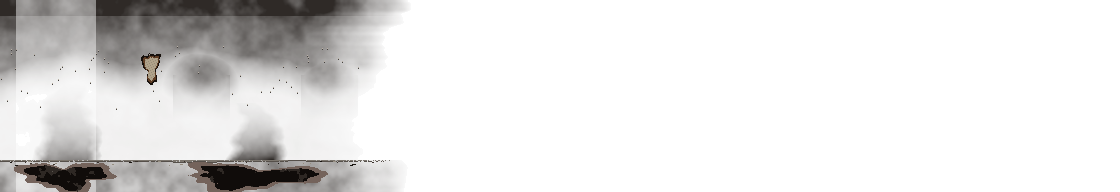
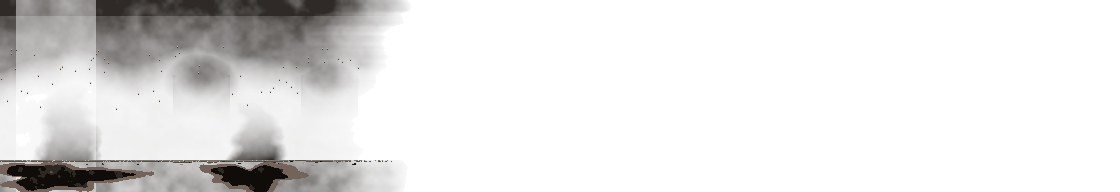
Signs sit clear: fire-scar holes keep off every sign, boards stop short of the door plate
The FLOOR plaque sat over paper burnt through by the fire scars (the holes never knew about
the sign footprints); barricade boards ran past the frame into the door's number plate; the
STAFF plate was 4px wider than its reserved footprint. All three now checked in
building_floors_test._test_floor_signs (the fire-scar check fails on the old art).

Claude-Session: https://claude.ai/code/session_018G5NCP3m9WbvqqpohXSrqQ

Changed region(s): [[0.0, 0.8438, 0.3125, 1.0], [0.125, 0.2812, 0.1562, 0.4375], [0.3125, 0.8125, 0.3438, 0.8438]]

diff --git a/tools/art/corridor.py b/tools/art/corridor.py
@@ -59,7 +59,7 @@ PIC_DY = 26                                  # pictures hang just above the rail
 # where the game draws its live signs (scripts/floor_signs.gd taken_local — keep the two in step): the
 # STAIRS signs, the floor numbers, the lift indicator, every door's number plate. No damage lands there.
 SIGNS = ([(12, 12, 100, 38), (1020, 12, 1108, 38), (112, 32, 150, 72), (966, 32, 1004, 72), (898, 48, 932, 64)]
-         + [(d - 50, 90, d - 24, 108) for d in DOORS + [814]])
+         + [(d - 50, 90, d - 24, 108) for d in DOORS] + [(814 - 56, 90, 814 - 24, 108)])   # STAFF is wider
 # wear geometry, set per section (set_geom): the dado rail's top, the lower wall's top, skirting
 DADO_Y, LOWER_Y, SKIRT_TOP = RAIL_Y, 100, SKIRT_Y
 G = {}
@@ -1091,6 +1091,11 @@ def fire_overlay(zone, seed):
         if any(abs(cx0 - d) < 34 for d in DOORS) or any(abs(cx0 - s_) < 22 for s_ in SPOTS):
             continue
         cy0 = rng.randrange(30, 80)
+        # never under a sign / number plate (floor_signs.gd draws them over this overlay; a hole round
+        # a plaque's edge reads as the plaque clipping into the wall)
+        if any(cx0 + 26 >= x0 - 3 and cx0 - 26 <= x1 + 3 and cy0 + 26 >= y0 - 3 and cy0 - 26 <= y1 + 3
+               for (x0, y0, x1, y1) in SIGNS):
+            continue
         fb = _blob(rng, cx0, cy0, rng.randrange(7, 14), rng.randrange(8, 16))
         for y in range(cy0 - 26, cy0 + 26):
             for x in range(cx0 - 30, cx0 + 30):

diff --git a/CLAUDE.md b/CLAUDE.md
@@ -1585,7 +1585,10 @@ means no rendering — UI layout and art still need an in-editor look.
   (`floor_signs.taken_local`). Nine readable BUILDING NOTICES join the per-floor dressing
   (`corridor_decals.py notice()`: lift out of order, water off, residents' meeting, bins, no smoking,
   keep it down; later evacuate / curfew / do not open doors). Corridor pictures NO LONGER HANG CROOKED
-  (`corridor.py picture_damage`: fine → gone → fallen). Locked by `building_floors_test._test_floor_signs`
+  (`corridor.py picture_damage`: fine → gone → fallen). Round 23b (owner: "clipping with the door and the
+  wall/signs"): the FIRE SCARS' burnt-through holes keep off every sign footprint (`corridor.py fire_overlay`),
+  barricade boards stop short of the door's plate (`barricade_boards.MAX_REACH`), and the STAFF plate's
+  wider footprint is reserved. Locked by `building_floors_test._test_floor_signs`
   (+ the decal checks). The hallway (30) and lobby don't draw stair/lift signs yet.
 - PUSH + CROWDS (owner round 9): a push takes ONE enemy (`player.push_target` — the nearest in
   front; it used to stagger everyone in reach), so a crowd is worked through and gets hits in. The

diff --git a/docs/Y_PLANES.md b/docs/Y_PLANES.md
@@ -299,7 +299,7 @@ collision planes) but live here so any move is measured, not eyeballed.
 
 | What | Y (world) | Notes |
 |---|---|---|
-| Door number plate | door origin − 20 (≈ 342 on a corridor floor) | about ¾ up the door; x = door − 28 − plate width (left of the door) |
+| Door number plate | door origin − 20 (≈ 342 on a corridor floor) | about ¾ up the door; x = door − 28 − plate width (left of the door, `door_plate.plate_rect`); barricade boards end ≤ 25 px from the door centre (`barricade_boards.MAX_REACH` 23 + a 2 px ragged end), short of it |
 | STAIRS sign | 262 .. 277 | hung from the stair opening's top (259, corridor.py RECESS y 16) |
 | FLOOR number | 281 .. 310 | beside each stairwell, x 246 (left) / 1100 (right) |
 | Lift indicator | 296 .. 305 | over the lift doors (they start ~307), x 1030 |
